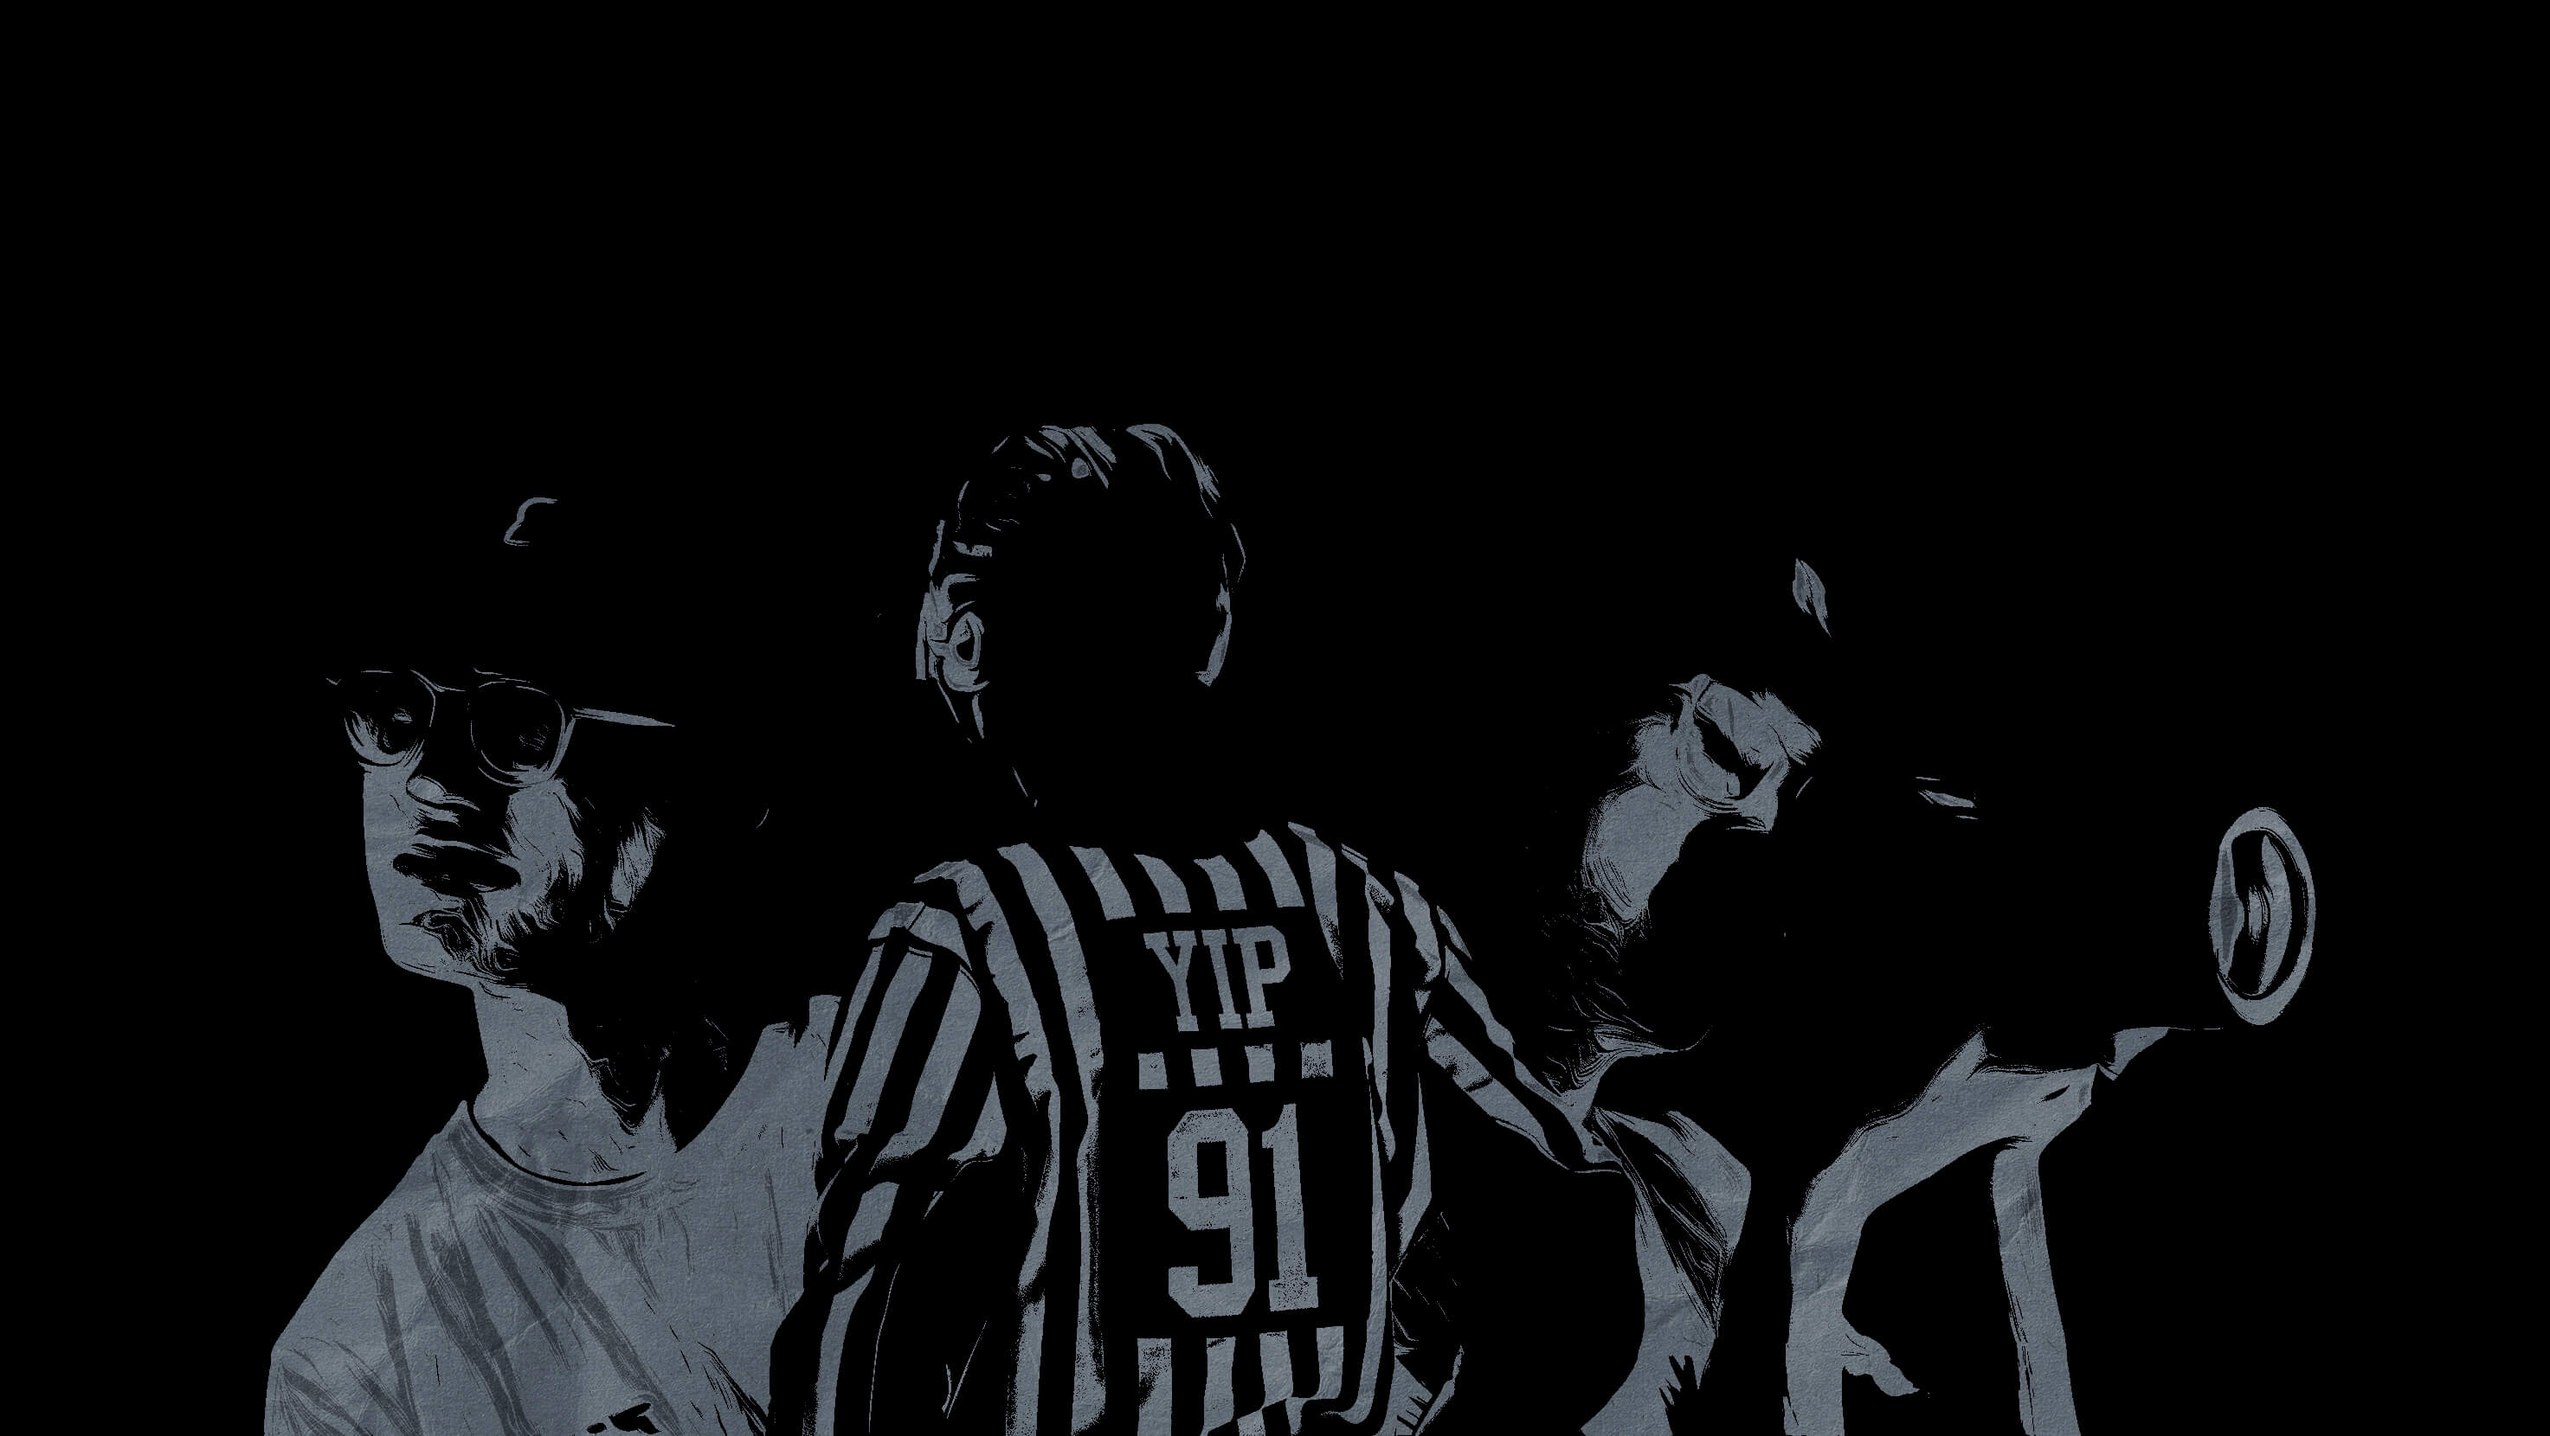
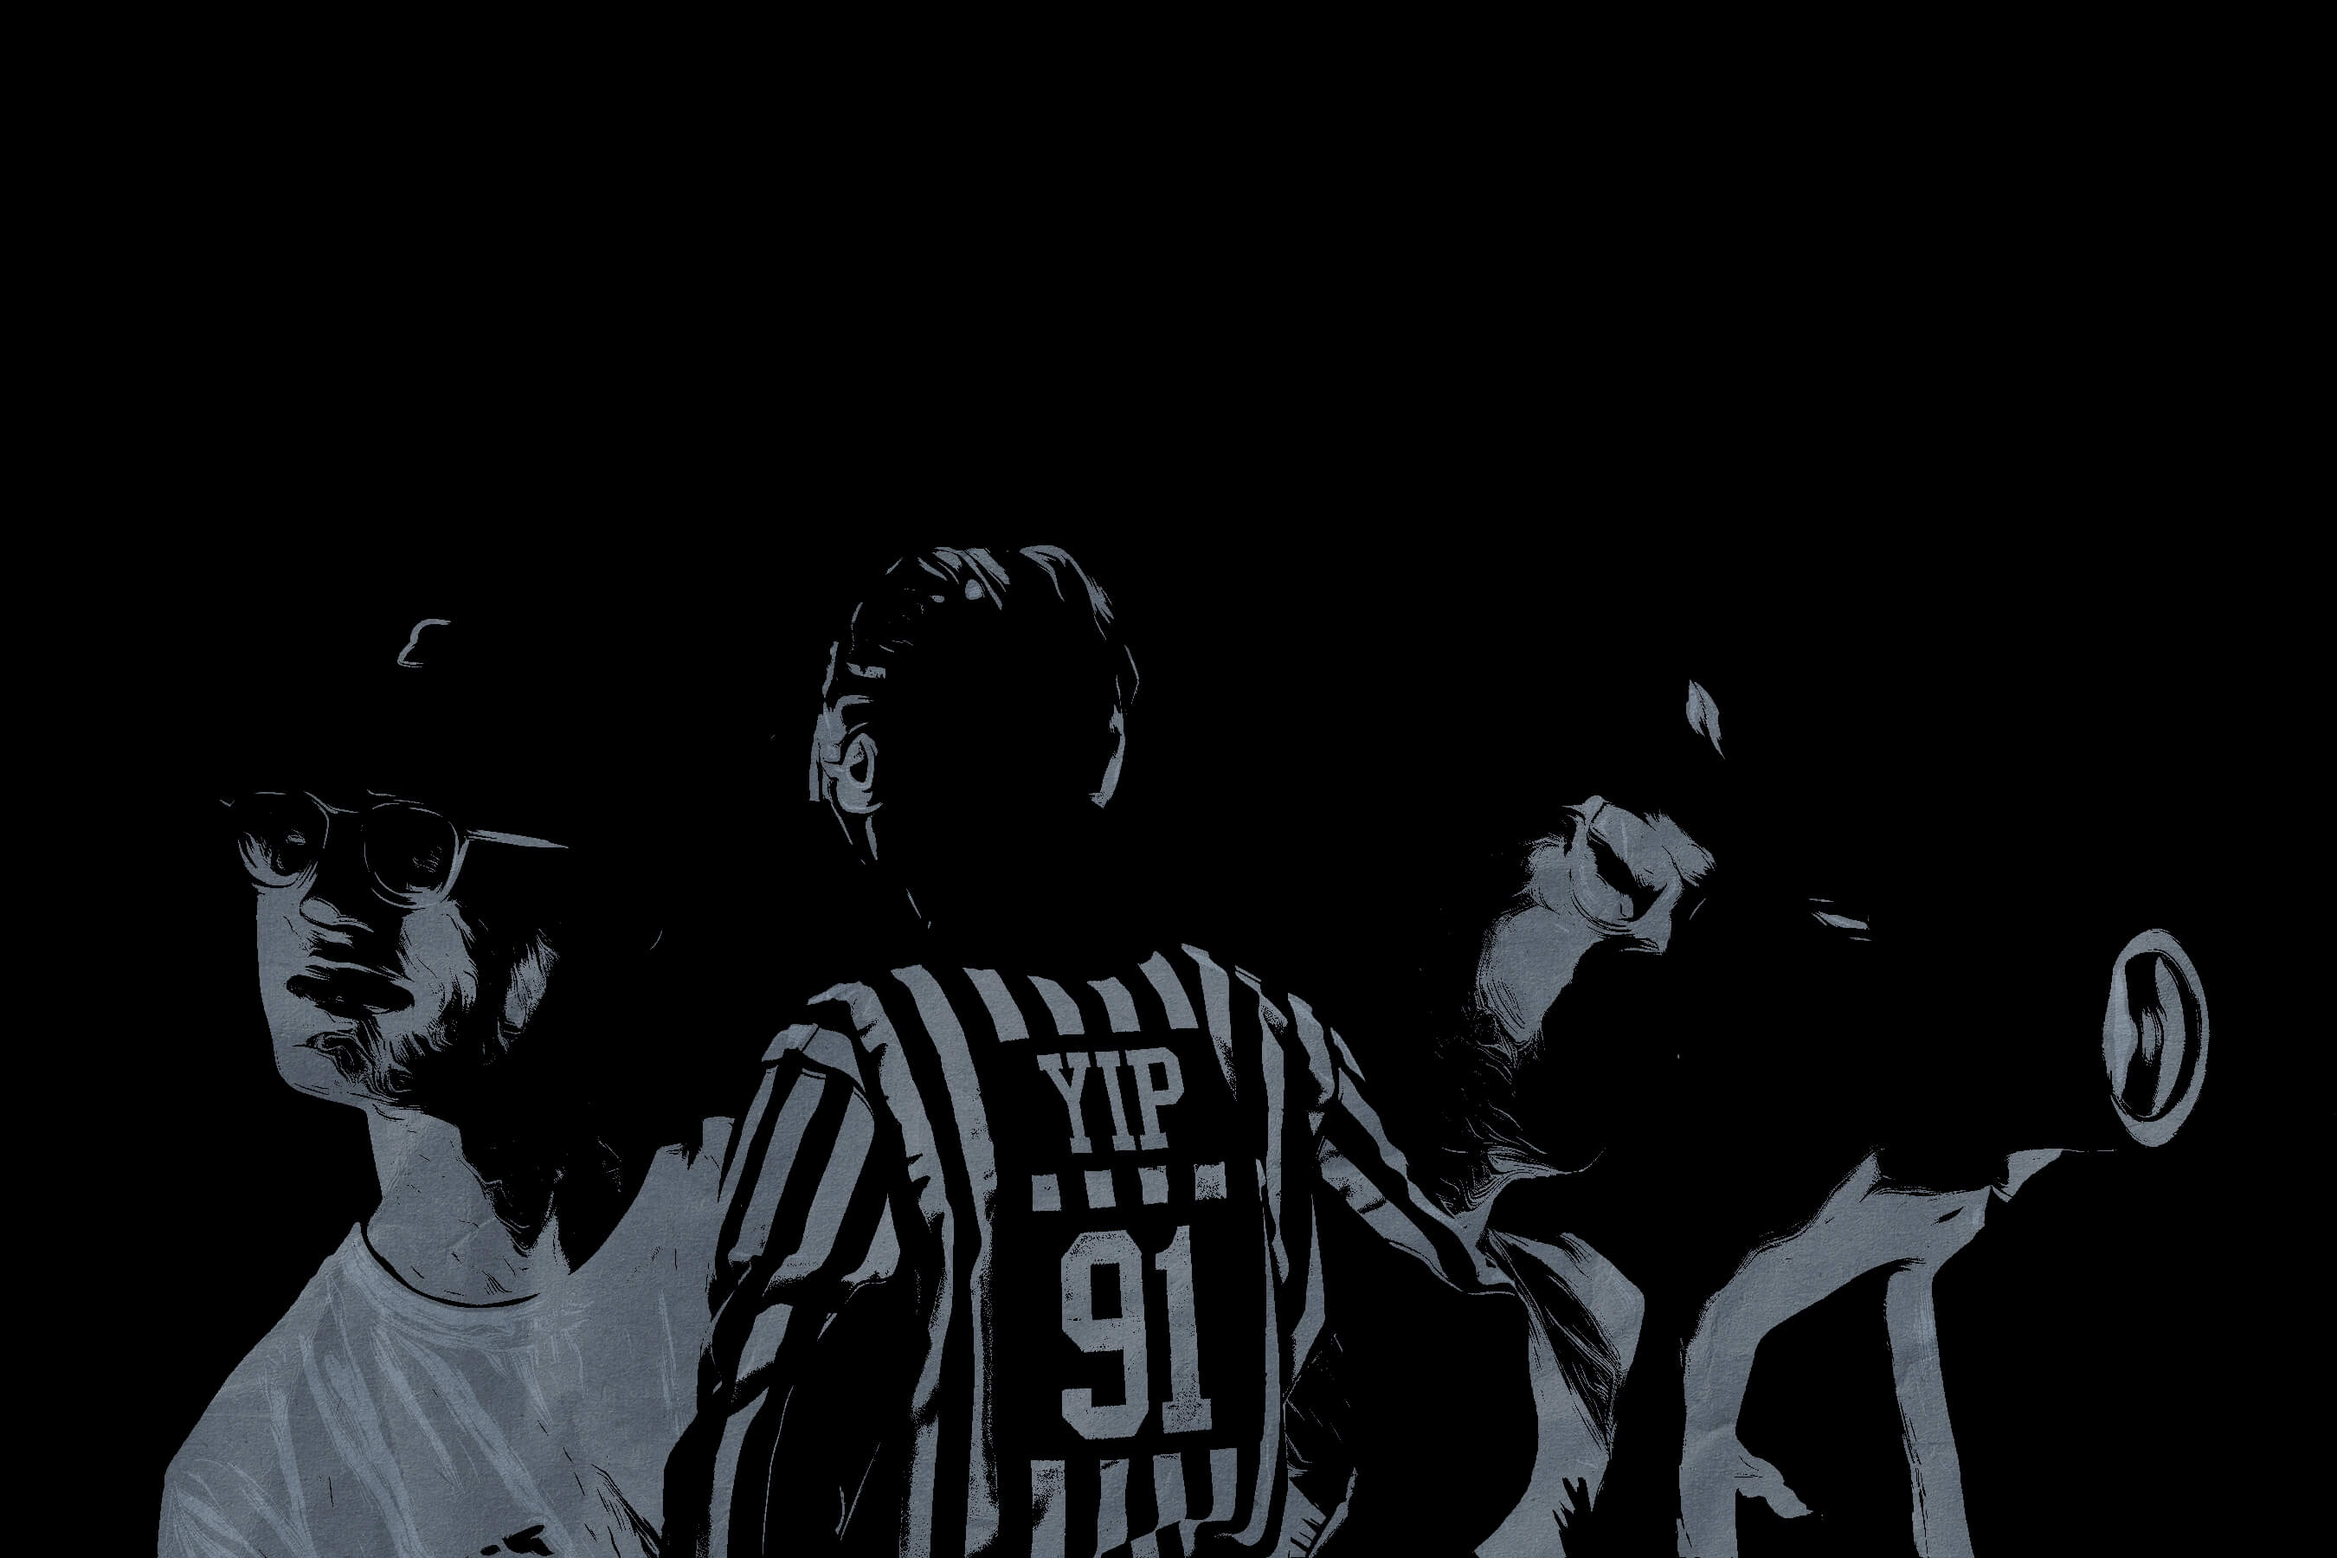
Image Optimization Macbook 14

diff --git a/src/stylesheets/_contact/_contact-desktop.scss b/src/stylesheets/_contact/_contact-desktop.scss
@@ -11,9 +11,10 @@
         z-index: -1;
 
         img {
-            max-height: 110vh;
+            max-height: 125vh;
             max-width: 100%;
-            aspect-ratio: 16 / 9;
+            // aspect-ratio: 16 / 9;
+            aspect-ratio: 3 / 2;
         }
         .img-front {
             position: absolute;
@@ -31,8 +32,8 @@
         }
         .img-overlay {
             max-width: 100%;
-            height: 110vh;
-            aspect-ratio: 16 / 9;
+            height: 125vh;
+            aspect-ratio: 3 / 2;
             position: absolute;
             background: linear-gradient(90deg, rgba(0,0,0,1) 0%, rgba(0,0,0,0) 25%, rgba(0,0,0,0) 75%, rgba(0,0,0,1) 100%);
             z-index: 1;

diff --git a/src/stylesheets/style.css b/src/stylesheets/style.css
@@ -567,9 +567,9 @@ footer .footer-bot p {
   z-index: -1;
 }
 .contact .img-wrap img {
-  max-height: 110vh;
+  max-height: 125vh;
   max-width: 100%;
-  aspect-ratio: 16/9;
+  aspect-ratio: 3/2;
 }
 .contact .img-wrap .img-front {
   position: absolute;
@@ -591,8 +591,8 @@ footer .footer-bot p {
 }
 .contact .img-wrap .img-overlay {
   max-width: 100%;
-  height: 110vh;
-  aspect-ratio: 16/9;
+  height: 125vh;
+  aspect-ratio: 3/2;
   position: absolute;
   background: linear-gradient(90deg, rgb(0, 0, 0) 0%, rgba(0, 0, 0, 0) 25%, rgba(0, 0, 0, 0) 75%, rgb(0, 0, 0) 100%);
   z-index: 1;
